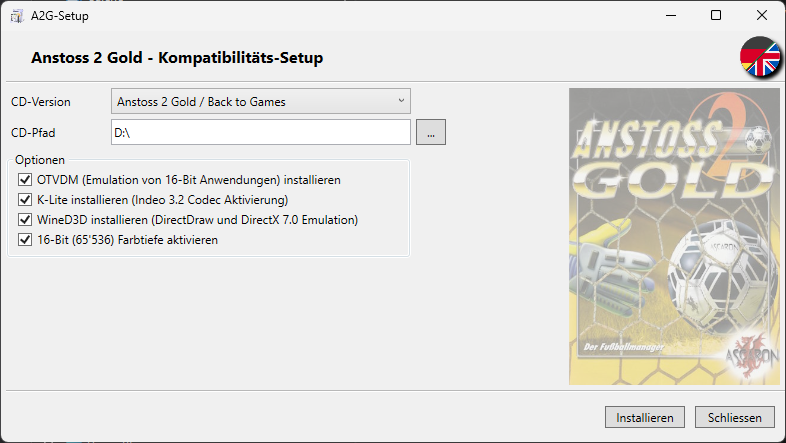
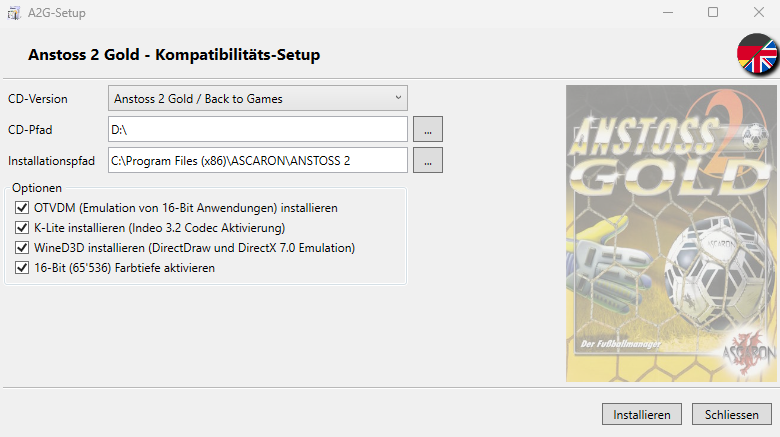
InstallShield and Inno Setup custom install path
Added support for custom path installs

diff --git a/MainWindow.xaml b/MainWindow.xaml
@@ -78,7 +78,7 @@
                     <ColumnDefinition Width="300"/>
                 </Grid.ColumnDefinitions>
                 <Label Grid.Column="0" Content="{localizer:LocalizedText Nr=10009}"/>
-                <ComboBox Name="cbCDVersion" Grid.Column="2" SelectedIndex="0" VerticalContentAlignment="Center" IsEnabled="{Binding IsInstalling, Converter={StaticResource BoolInverterConverter}}">
+                <ComboBox Name="cbCDVersion" Grid.Column="2" SelectedIndex="0" VerticalContentAlignment="Center" IsEnabled="{Binding IsInstalling, Converter={StaticResource BoolInverterConverter}}" SelectionChanged="cbCDVersion_SelectionChanged">
                     <ComboBoxItem Content="{localizer:LocalizedText Nr=10010}" Tag="{x:Static local:Version.A2G}"/>
                     <ComboBoxItem Content="{localizer:LocalizedText Nr=10011}" Tag="{x:Static local:Version.A2007}"/>
                 </ComboBox>
@@ -94,6 +94,18 @@
                 <Label Grid.Column="0" Content="{localizer:LocalizedText Nr=10012}"/>
                 <TextBox Grid.Column="2" Text="{Binding CDPath}" VerticalContentAlignment="Center" IsReadOnly="True" IsEnabled="{Binding IsInstalling, Converter={StaticResource BoolInverterConverter}}"/>
                 <Button Grid.Column="4" Content="..." Click="btSelectCDPath_Click" Cursor="Hand" IsEnabled="{Binding IsInstalling, Converter={StaticResource BoolInverterConverter}}"/>
+            </Grid>
+            <Grid Margin="0,5,0,0">
+                <Grid.ColumnDefinitions>
+                    <ColumnDefinition Width="Auto" SharedSizeGroup="Description"/>
+                    <ColumnDefinition Width="5"/>
+                    <ColumnDefinition Width="300"/>
+                    <ColumnDefinition Width="5"/>
+                    <ColumnDefinition Width="30"/>
+                </Grid.ColumnDefinitions>
+                <Label Grid.Column="0" Content="{localizer:LocalizedText Nr=10020}"/>
+                <TextBox Grid.Column="2" Text="{Binding InstallPath}" VerticalContentAlignment="Center" IsReadOnly="True" IsEnabled="{Binding IsInstalling, Converter={StaticResource BoolInverterConverter}}"/>
+                <Button Grid.Column="4" Content="..." Click="btSelectInstallPath_Click" Cursor="Hand" IsEnabled="{Binding IsInstalling, Converter={StaticResource BoolInverterConverter}}"/>
             </Grid>
             <GroupBox Header="{localizer:LocalizedText Nr=10016}" Margin="0,5,0,0" Width="405" HorizontalAlignment="Left">
                 <StackPanel  Orientation="Vertical" Margin="5" IsEnabled="{Binding IsInstalling, Converter={StaticResource BoolInverterConverter}}">

diff --git a/MainWindow.xaml.cs b/MainWindow.xaml.cs
@@ -23,6 +23,13 @@ namespace A2G_Setup
             set => NotifyPropertyChanged(ref _CDPath, value);
         }
 
+        private string _InstallPath = string.Empty;
+        public string InstallPath
+        {
+            get => _InstallPath;
+            set => NotifyPropertyChanged(ref _InstallPath, value);
+        }
+
         private bool _IsInstalling = false;
         public bool IsInstalling
         {
@@ -65,6 +72,21 @@ namespace A2G_Setup
             this.Close();
         }
 
+        private void SetOriginalInstallPath()
+        {
+            Version? selectedVersion = (cbCDVersion.SelectedItem as ComboBoxItem).Tag as Version?;
+            switch (selectedVersion) {
+                case Version.A2G: {
+                        InstallPath = @"C:\Program Files (x86)\ASCARON\ANSTOSS 2";
+                    }
+                    break;
+                case Version.A2007: {
+                        InstallPath = @"C:\Program Files (x86)\ASCARON Entertainment\ANSTOSS 2 Gold";
+                    }
+                    break;
+            }
+        }
+
         private CancellationTokenSource _cancellationTokenSource;
         private void btInstall_Click(object sender, RoutedEventArgs e)
         {
@@ -83,19 +105,42 @@ namespace A2G_Setup
             Version? selectedVersion = (cbCDVersion.SelectedItem as ComboBoxItem).Tag as Version?;
 
             string cdPath = string.Empty;
-            string installPath = string.Empty;
             string installParameters = string.Empty;
             switch (selectedVersion) {
-                case Version.A2G: {
+                case Version.A2G: { // IS3 - 16 bit
                         cdPath = CDPath;
-                        installPath = @"C:\Program Files (x86)\ASCARON\ANSTOSS 2";
                         installParameters = "/s";
+                        string issFile = Path.Combine(CDPath, "setup.iss");
+                        if (File.Exists(issFile)) {
+                            string tmpissFile = Path.Combine(tempDir, "setup.iss");
+                            File.Copy(issFile, tmpissFile, true);
+                            File.SetAttributes(tmpissFile, FileAttributes.Normal); // remove Read-Only flags
+
+                            string issContent = File.ReadAllText(tmpissFile);
+
+                            // Update szPath under [AskDestPath-0]
+                            issContent = System.Text.RegularExpressions.Regex.Replace(
+                                issContent,
+                                @"(?<=szPath=).*",
+                                InstallPath
+                            );
+
+                            // Update szDir under [SdSetupType-0]
+                            issContent = System.Text.RegularExpressions.Regex.Replace(
+                                issContent,
+                                @"(?<=szDir=).*",
+                                InstallPath
+                            );
+
+                            File.WriteAllText(tmpissFile, issContent);
+
+                            installParameters += $" /f1\"{tmpissFile}\"";
+                        }
                     }
                     break;
-                case Version.A2007: {
+                case Version.A2007: { // Inno Setup
                         cdPath = Path.Combine(CDPath, "ANSTOSS_2_GOLD");
-                        installPath = @"C:\Program Files (x86)\ASCARON Entertainment\ANSTOSS 2 Gold";
-                        installParameters = "/VERYSILENT /SUPPRESSMSGBOXES";
+                        installParameters = $"/VERYSILENT /SUPPRESSMSGBOXES /DIR=\"{InstallPath}\"";
                     }
                     break;
             }
@@ -192,9 +237,9 @@ namespace A2G_Setup
 
                     RunProcess(cdSetupPath, installParameters, cdPath);
 
-                    string a2exePath = Path.Combine(installPath, "anstoss2.exe");
-                    string verlexePath = Path.Combine(installPath, "verl.exe");
-                    string editorexePath = Path.Combine(installPath, "editor.exe");
+                    string a2exePath = Path.Combine(InstallPath, "anstoss2.exe");
+                    string verlexePath = Path.Combine(InstallPath, "verl.exe");
+                    string editorexePath = Path.Combine(InstallPath, "editor.exe");
                     success = File.Exists(a2exePath);
                     if (!success) {
                         ShowMessageFromTask(LocalizedText.GetText(30007), LocalizedText.GetText(20000), MessageBoxImage.Error);
@@ -203,7 +248,7 @@ namespace A2G_Setup
                         InstallStep = LocalizedText.GetText(40002);
 
                         // Full access for everyone in the install, to prevent virtualization of tools running in it such as WineD3D or others to be added in the future
-                        GrantFullAccessToFolder(installPath);
+                        GrantFullAccessToFolder(InstallPath);
 
                         // Set compatibility flags required by the application
                         if (use16bitColor) {
@@ -249,7 +294,7 @@ namespace A2G_Setup
                         InstallStep = LocalizedText.GetText(40005);
                         string wineZipPath = Path.Combine(tempDir, "WineD3D.zip");
                         if (ExtractResource("A2G_Setup.SetupFiles.WineD3D.WineD3D.zip", wineZipPath)) {
-                            if (!ExtractZipFileStandard(wineZipPath, installPath)) {
+                            if (!ExtractZipFileStandard(wineZipPath, InstallPath)) {
                                 ShowMessageFromTask(LocalizedText.GetText(30010), LocalizedText.GetText(20000), MessageBoxImage.Error);
                             }
                         }
@@ -491,6 +536,30 @@ namespace A2G_Setup
             }
         }
 
+        private void cbCDVersion_SelectionChanged (object sender, SelectionChangedEventArgs e)
+        {
+            // CD Version changed -> Display the original install path normally used by this release
+            SetOriginalInstallPath();
+        }
+
+        private void btSelectInstallPath_Click (object sender, RoutedEventArgs e)
+        {
+            using (var dialog = new System.Windows.Forms.FolderBrowserDialog()) {
+                dialog.Description = LocalizedText.GetText(10021);
+                dialog.ShowNewFolderButton = true;
+
+                // If InstallPath has a value, start the dialog there
+                if (!string.IsNullOrWhiteSpace(InstallPath) && Directory.Exists(InstallPath)) {
+                    dialog.SelectedPath = InstallPath;
+                }
+
+                var result = dialog.ShowDialog();
+                if (result == System.Windows.Forms.DialogResult.OK) {
+                    InstallPath = dialog.SelectedPath;
+                }
+            }
+        }
+
         protected override void OnClosing (CancelEventArgs e)
         {
             if (IsInstalling) {
@@ -509,6 +578,8 @@ namespace A2G_Setup
 
             base.OnClosing(e);
         }
+
+        
     }
 
     public enum Version
